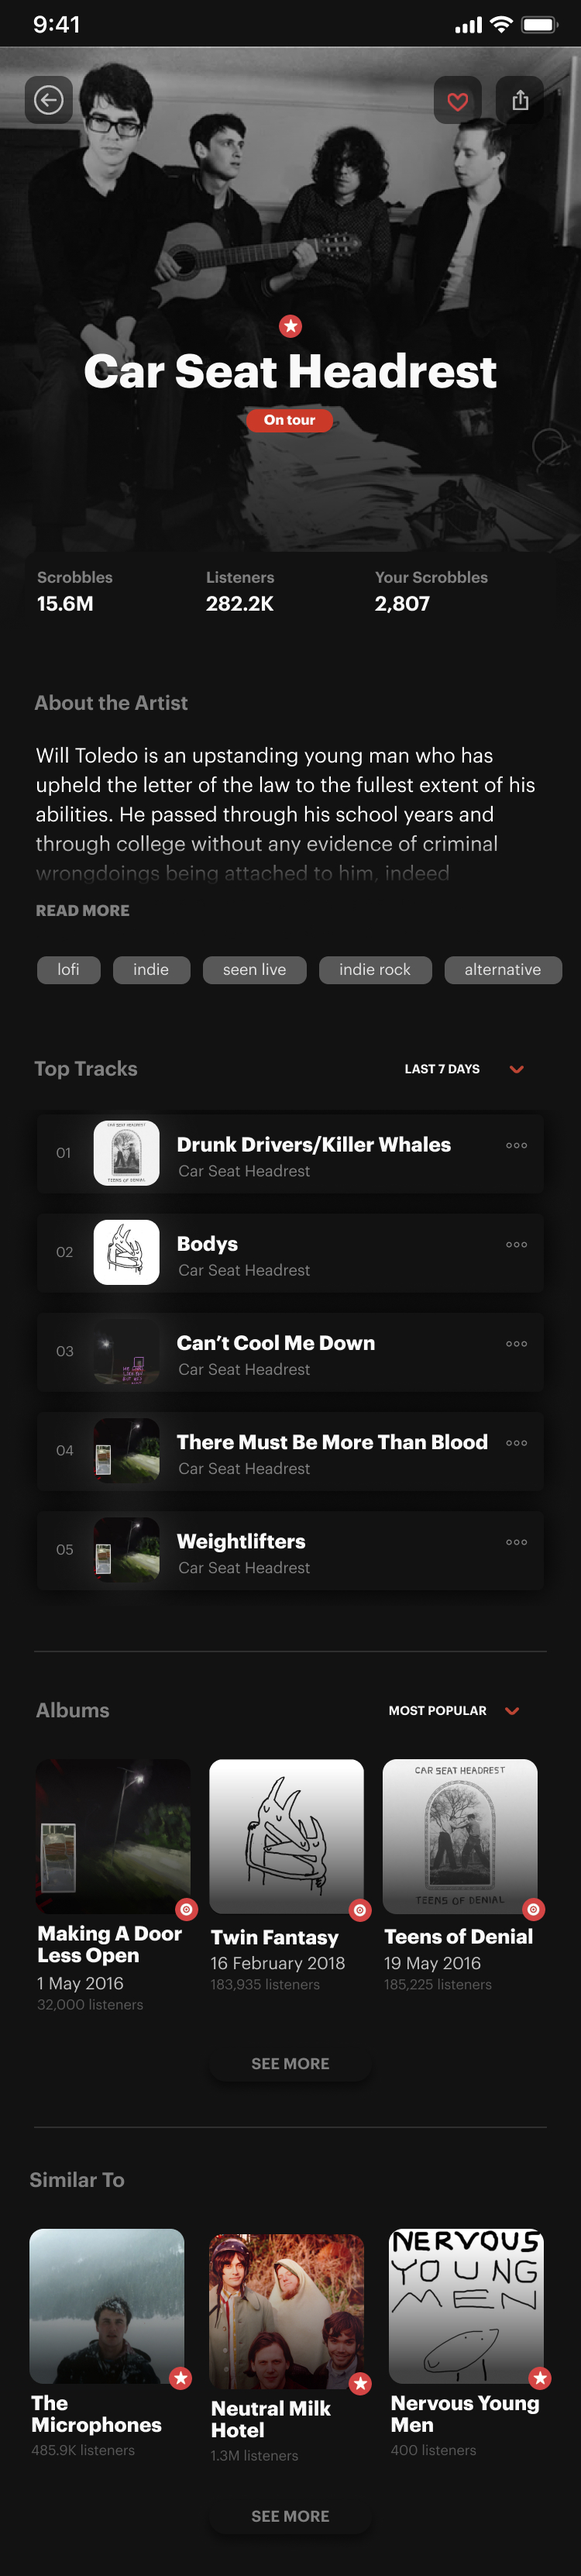
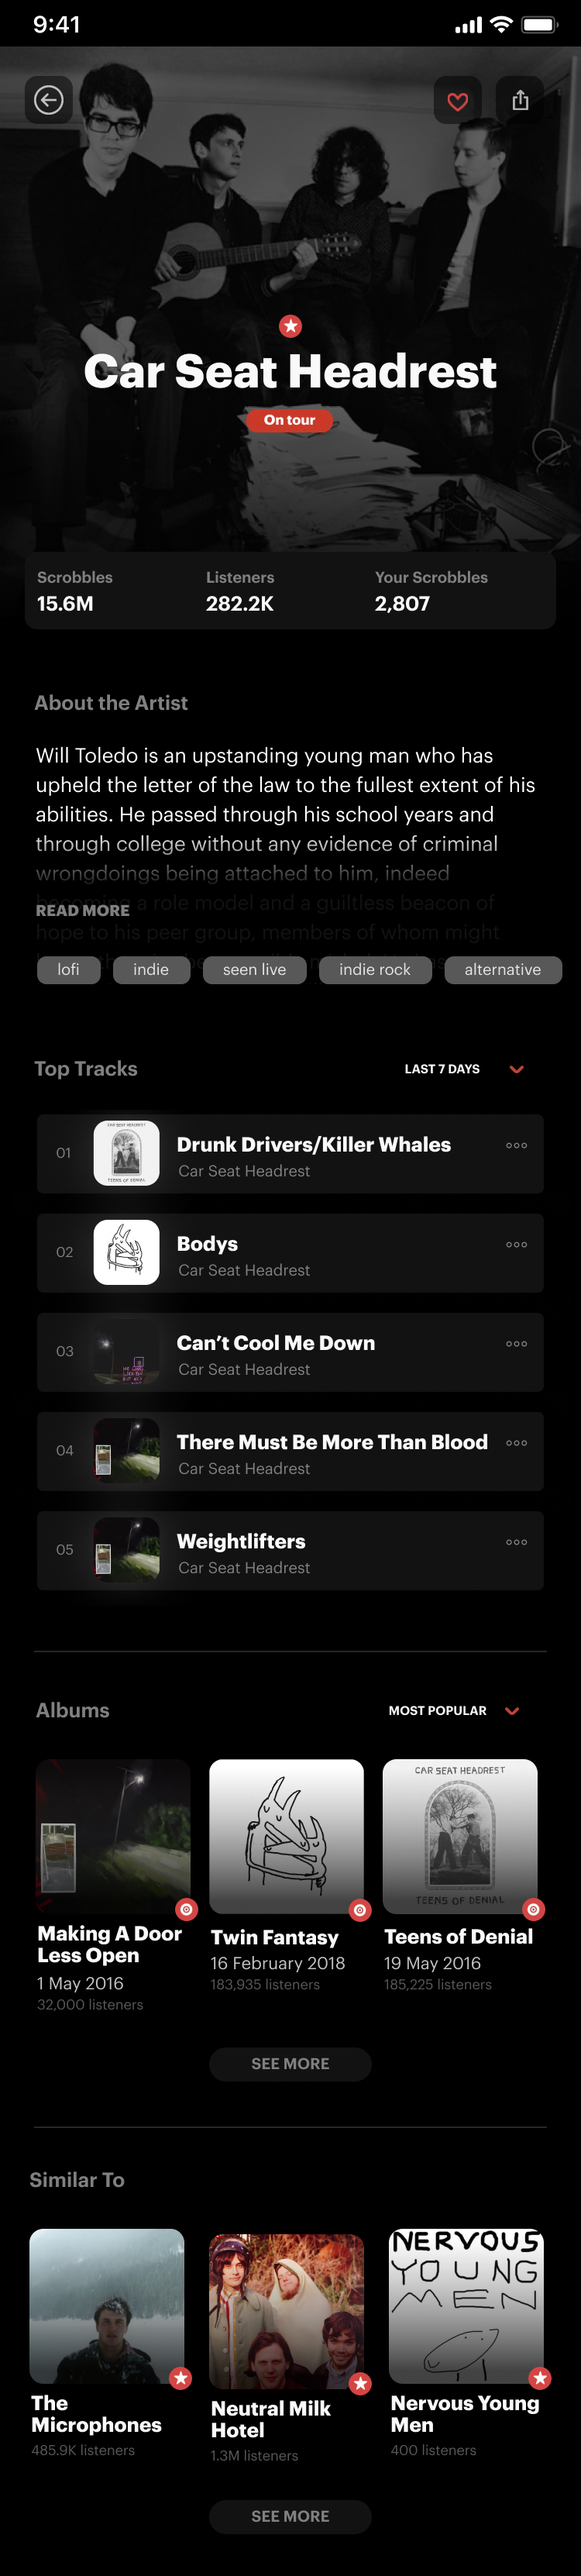
update artist and discog

Changed region(s): [[0.0, 0.0, 1.0, 0.1239]]

diff --git a/public/work/lastfm.html b/public/work/lastfm.html
@@ -668,11 +668,11 @@
 
                             <div class="image-container-tall image-container-iphone">
                                 <em>Revised mid-fi artist page (scroll ↓)</em>
-                                <img loading="lazy" class="image-full" src="../assets/portfolio/lastfm/lofi-artist-4.jpg">
+                                <img loading="lazy" class="image-full" src="../assets/portfolio/lastfm/midfi-artist.jpg">
                                 
                                 <em>Discography</em>
                                 
-                                <img loading="lazy" class="image-full" src="../assets/portfolio/lastfm/midfi-artist.jpg">
+                                <img loading="lazy" class="image-full" src="../assets/portfolio/lastfm/midfi-artist-discography.jpg">
                                 
                             </div>
 
@@ -751,7 +751,7 @@
                                 <em>Mid-fi profile page (scroll ↓)</em>
                                
                         <span class="image-container">
-                            <br><br><img loading="lazy" class="image-full" src="../assets/portfolio/lastfm/midfi-profile-long-4.jpg">
+                            <br><br><img loading="lazy" class="image-full" src="../assets/portfolio/lastfm/midfi-profile-long-4jpg.jpg">
                         </span>
                             
 
